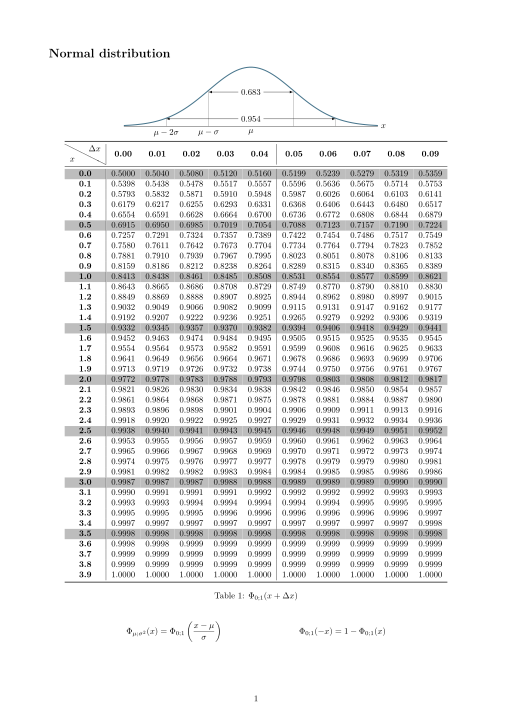
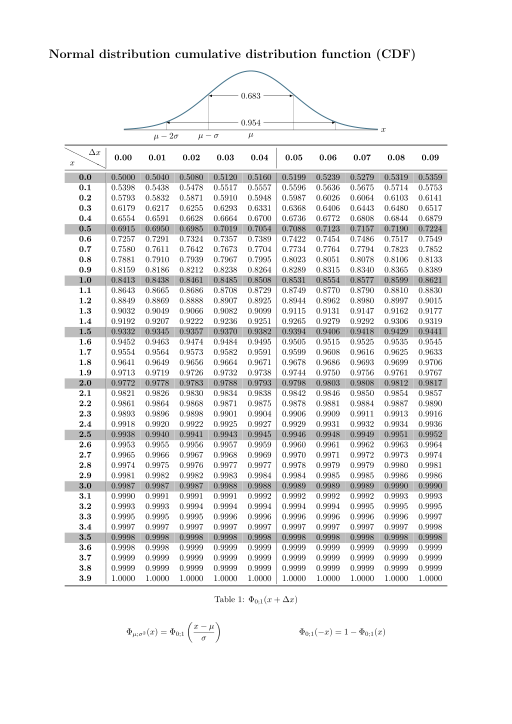
Remove page number

diff --git a/documents/normal-distribution/normal-distribution.tex b/documents/normal-distribution/normal-distribution.tex
@@ -11,7 +11,8 @@
 \setlength{\intextsep}{1pt}
 
 \begin{document}
-    \section*{Normal distribution}
+    \pagenumbering{gobble}
+    \section*{Normal distribution cumulative distribution function (CDF)}
 
 \pgfmathdeclarefunction{gauss}{3}{%
   \pgfmathparse{1/(#3*sqrt(2*pi))*exp(-((#1-#2)^2)/(2*#3^2))}%
